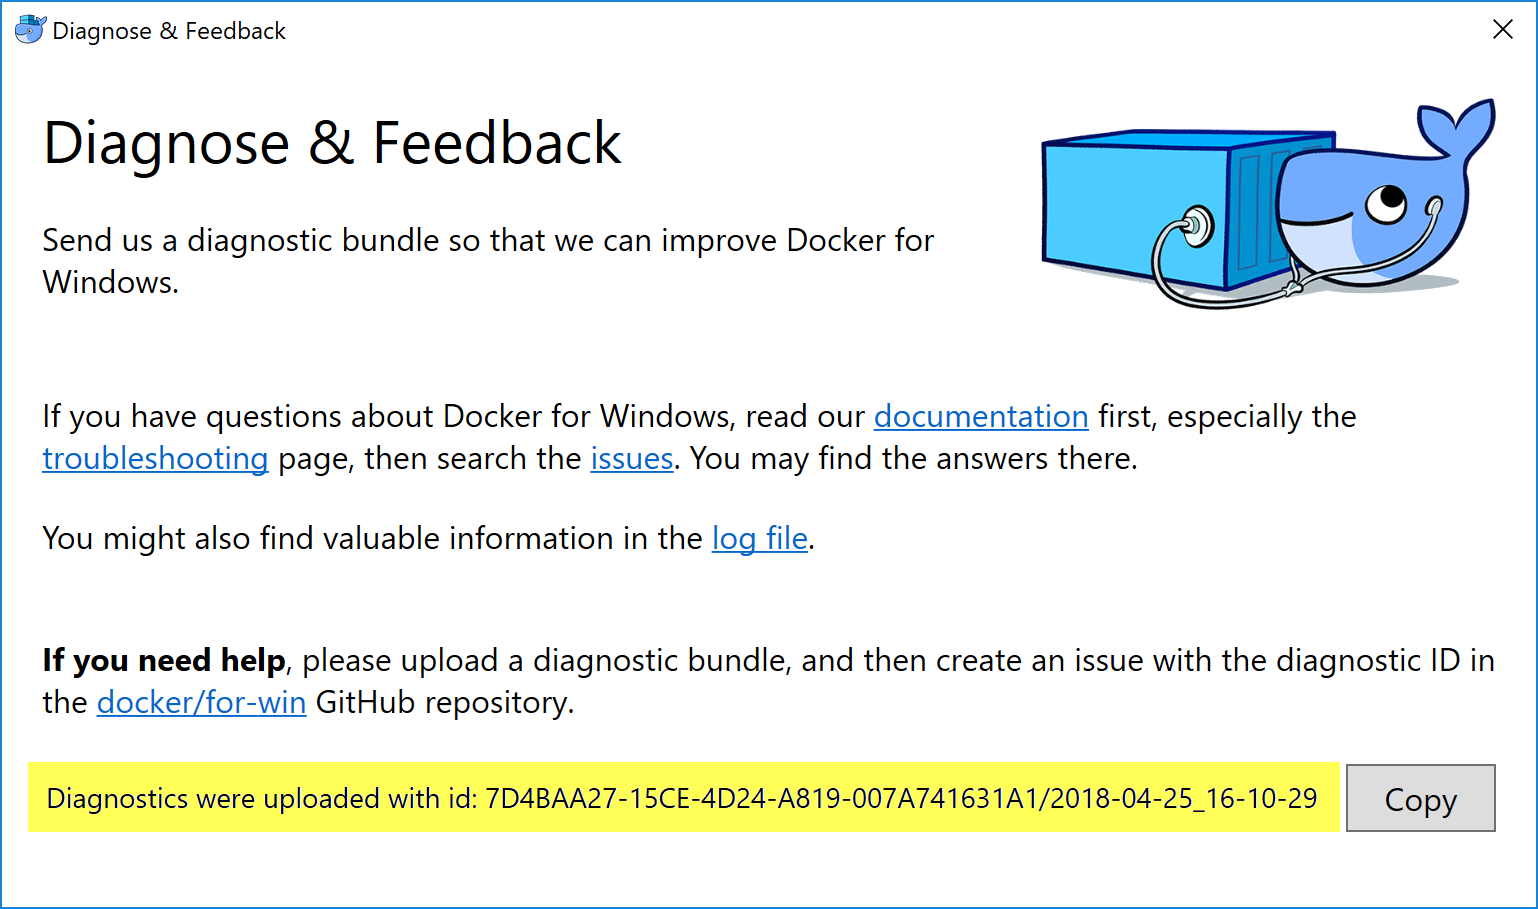
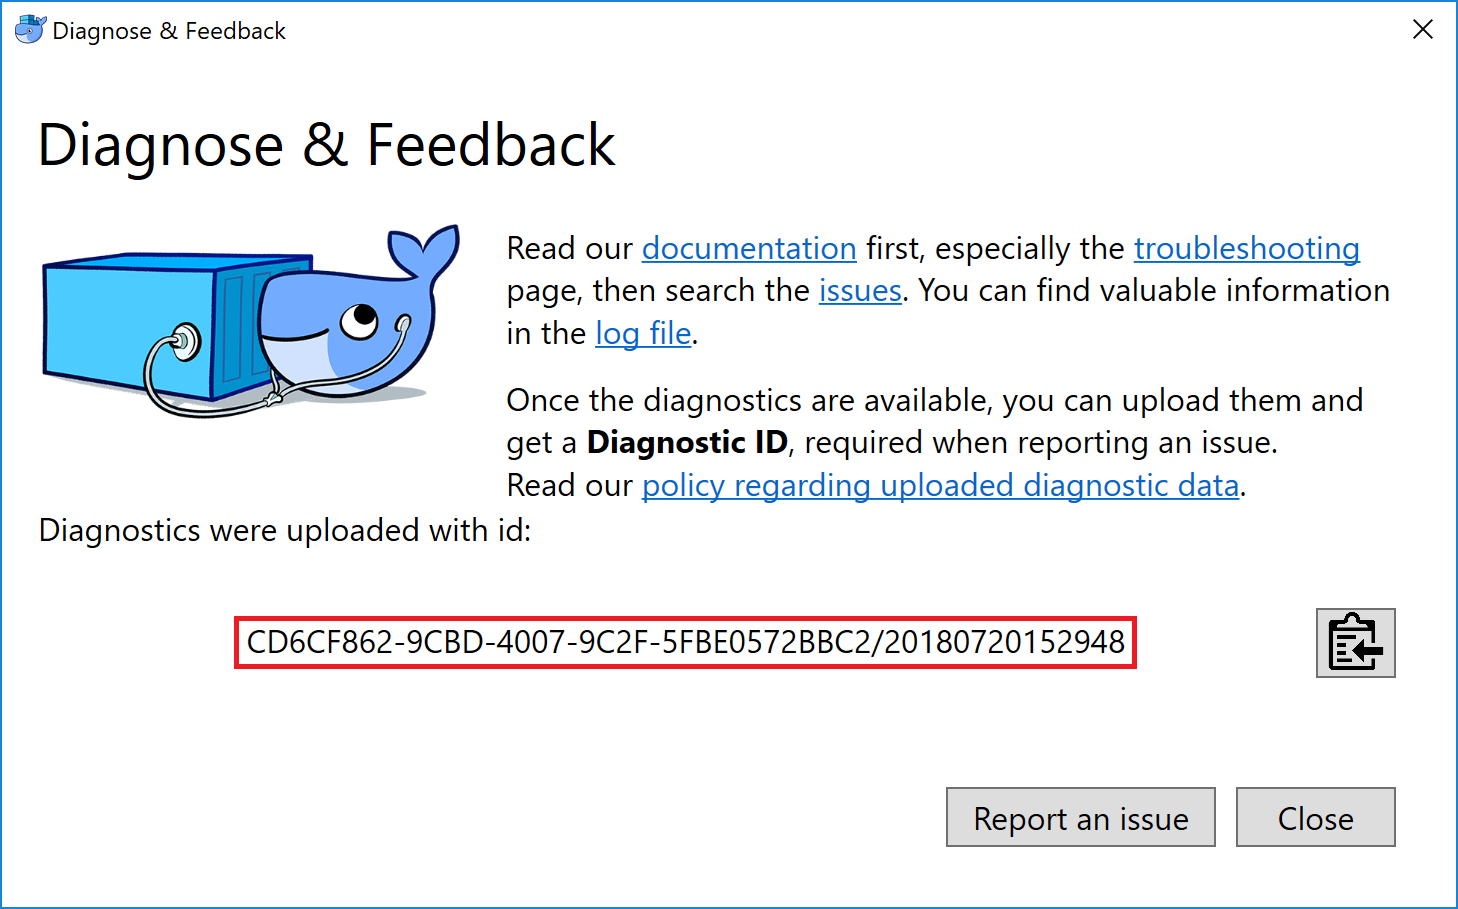
Update troubleshooting guide for docker for windows

diff --git a/docker-for-windows/troubleshoot.md b/docker-for-windows/troubleshoot.md
@@ -7,18 +7,57 @@ redirect_from:
 title: Logs and troubleshooting
 ---
 
-This page explains how to diagnose and troubleshoot problems you may be having with Docker for Windows.
+Here is information about how to diagnose and troubleshoot problems, send logs
+and communicate with the Docker for Windows team, use our forums and Knowledge Hub,
+browse and log issues on GitHub, and find workarounds for known problems.
 
-## Getting help
+## Docker Knowledge Hub
 
-There are several ways to get the support you need with Docker for Windows. If you encounter problems not addressed here in the documentation:
+**Looking for help with Docker for Windows?** Check out the [Docker Knowledge
+Hub](http://success.docker.com/q) for knowledge base articles, FAQs, and
+technical support for various subscription levels.
 
-- Refer to the knowledge base articles at the [Docker Success Center](https://success.docker.com/q/).
-- Browse the logs (in `User\AppData\Local\Docker`) by clicking **log file** in the Diagnose & Feedback window.
-- Ask questions on the [Docker for Windows forum](https://forums.docker.com/c/docker-for-windows).
-- Upload diagnostics in the Diagnose & Feedback window. You'll get a unique ID in return. You can then use this ID to submit issues at the [Docker for Windows GitHub repo](https://github.com/docker/for-win/issues).
+## Diagnose problems, send feedack and create GitHub issues
 
-![Diagnose & Feedback with ID](images/diagnostic-id.png){:width="500px"}
+### In-app diagnostics
+If you encounter problems for which you do not find solutions in this
+documentation, on [Docker for Windows issues on
+GitHub](https://github.com/docker/for-win/issues), or the [Docker for Win
+forum](https://forums.docker.com/c/docker-for-windows), we can help you troubleshoot
+the log data.
+
+Choose ![whale menu](images/whale-x.png){: .inline} →
+**Diagnose & Feedback** from the menu bar.
+
+![Diagnose & Feedback](images/diagnose-feedback.png){:width="600px"}
+
+Once the **Diagnose & Feedback** window is opened, it will start to collect the dignostics. When the diagnostics are available, you can upload them and obtain a **Diagnostic ID**, which must be provided when communicating with the Docker team. For more information on our policy regarding personal data you can read [how is personal data handled in Docker Desktop](https://docs.docker.com/docker-for-mac/faqs/#how-is-personal-data-handled-in-docker-desktop).
+
+![Diagnose & Feedback with ID](images/diagnostic-id.png){:width="600px"}
+
+If you click on **Report an issue**, this opens [Docker for Windows issues on
+GitHub](https://github.com/docker/for-win/issues/) in your web browser in a "create new issue" template, to be completed before submision.
+
+![issue-template](images/issue-template.png){:width="600px"}
+
+### Diagnosing from the terminal
+
+On occasions it is useful to run the diagnostics yourself, for instance if Docker for Windows cannot start.
+
+First locate the `com.docker.diagnose`, that should be in `C:\Program Files\Docker\Docker\resources\com.docker.diagnose.exe`.
+
+To create *and upload*  diagnostics in Powershell, run:
+
+```sh
+  > & "C:\Program Files\Docker\Docker\resources\com.docker.diagnose.exe" gather -upload
+```
+
+After the diagnostics have finished, you should have the following output, containing your diagnostic ID:
+
+```sh
+Diagnostics Bundle: C:\Users\User\AppData\Local\Temp\CD6CF862-9CBD-4007-9C2F-5FBE0572BBC2\20180720152545.zip
+Diagnostics ID:     CD6CF862-9CBD-4007-9C2F-5FBE0572BBC2/20180720152545 (uploaded)
+```
 
 ## Troubleshooting topics
 
@@ -52,14 +91,8 @@ the Getting Started topic.
 
 Docker for Windows sets permissions on [shared
 volumes](index.md#shared-drives) to a default value of
-[0755](http://permissions-calculator.org/decode/0755/) (`read`, `write`,
-`execute` permissions for `user`, `read` and `execute` for `group`). If you are
-working with applications that require permissions different than this default,
-you may get errors similar to the following.
-
-```none
-Data directory (/var/www/html/data) is readable by other users. Please change the permissions to 0755 so that the directory cannot be listed by other users.
-```
+[0777](http://permissions-calculator.org/decode/0777/) (`read`, `write`,
+`execute` permissions for `user` and for `group`).
 
 The default permissions on shared volumes are not configurable. If you are
 working with applications that require permissions different from the shared
@@ -88,7 +121,7 @@ If you are using mounted volumes and get runtime errors indicating an applicatio
 
 Volume mounting requires shared drives for Linux containers (not for Windows
 containers). Go to ![whale menu](/docker-for-mac/images/whale-x.png){: .inline}
---> **Settings** --> **Shared Drives** and share the drive that contains the
+→ **Settings** → **Shared Drives** and share the drive that contains the
 Dockerfile and volume.
 
 #### Verify domain user has permissions for shared drives (volumes)
@@ -106,7 +139,7 @@ mounted volumes.  The volumes show as empty.
 The solution to this is to switch to the domain user account and reset
 credentials on shared drives.
 
-Here is an example of how to de-bug this problem, given a scenario where you
+Here is an example of how to debug this problem, given a scenario where you
 shared the `C` drive as a local user instead of as the domain user. Assume the
 local user is `samstevens` and the domain user is `merlin`.
 
@@ -307,10 +340,9 @@ Here are some steps to take if you encounter similar problems:
     > Read the whole page before running any scripts, especially warnings about `-ForceDeleteAllSwitches`.
     > {: .warning}
 
-### Windows containers and Windows Server 2016
+### Windows containers
 
-If you have questions about how to set up and run Windows containers on Windows
-Server 2016 or Windows 10, see [About Windows containers and Windows Server 2016](index.md#about-windows-containers-and-windows-server-2016).
+If you have questions about how to run Windows containers on Windows 10, see [Switch between Windows and Linux containers](index.md#switch-between-windows-and-linux-containers).
 
 A full tutorial is available in [docker/labs](https://github.com/docker/labs) at
 [Getting Started with Windows Containers](https://github.com/docker/labs/blob/master/windows/windows-containers/README.md).
@@ -400,7 +432,7 @@ with Linux containers.
 #### If you still want to use nested virtualization
 
 * Make sure nested virtualization support is enabled in VMWare or Parallels.
-Check the settings in **Hardware -> CPU & Memory -> Advanced Options -> Enable
+Check the settings in **Hardware → CPU & Memory → Advanced Options → Enable
 nested virtualization** (the exact menu sequence might vary slightly).
 
 * Configure your VM with at least 2 CPUs and sufficient memory to run your
@@ -453,7 +485,7 @@ See 'C:\Program Files\Docker\Docker\Resources\bin\docker.exe run --help'.
 
 As an immediate workaround to this problem, reset the DNS server to use the
 Google DNS fixed address: `8.8.8.8`. You can configure this via the **Settings**
--> **Network** dialog, as described in the topic
+→ **Network** dialog, as described in the topic
 [Network](index.md#network). Docker automatically restarts
 when you apply this setting, which could take some time.
 
@@ -503,7 +535,7 @@ or `listen tcp:0.0.0.0:8080: bind: address is already in use` ...
 
 These errors are often caused by some other software on Windows using those
 ports. To discover the identity of this software, either use the `resmon.exe`
-GUI and click "Network" and then "Listening Ports" or in a powershell use
+GUI and click "Network" and then "Listening Ports" or in a Powershell use
 `netstat -aon | find /i "listening "` to discover the PID of the process
 currently using the port (the PID is the number in the rightmost column). Decide
 whether to shut the other process down, or to use a different port in your
